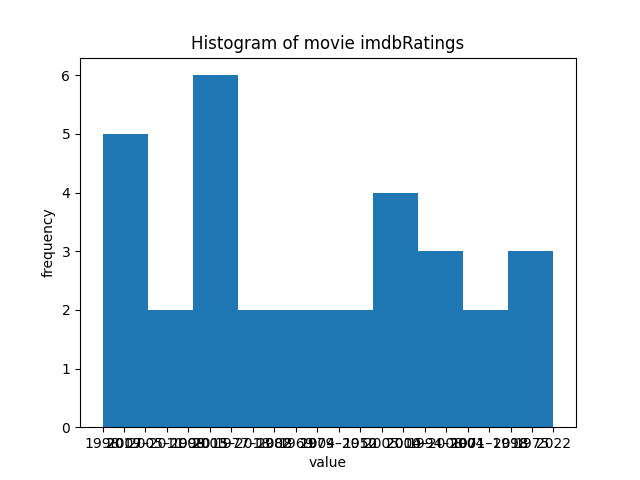
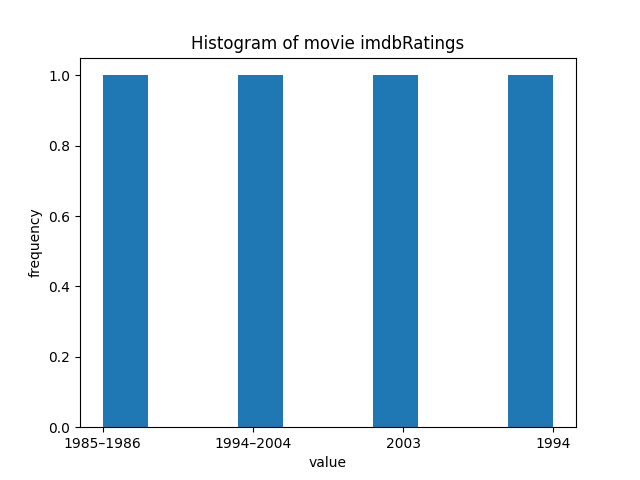
VERSION 1 DELEIVERY OF MOVIE PH.2 TO CORIO

diff --git a/Movie_Project/Movie_Project_Ph2/web_generator.py b/Movie_Project/Movie_Project_Ph2/web_generator.py
@@ -53,33 +53,38 @@ def generate_grid(movies: list):  # A list of tuples with the movies
     grid = ""
 
     for movie in movies:
-        if movie[8] is not None:  # if there is a country for the movie
-            countries = movie[8].split(
-                ","
-            )  # in case there are multiple countries for a movie, we take both countries
+        try:
             country_codes = []
-            for country in countries:
-                country_codes.append(scrape_for_flags(country))
-        grid += f"""
-            <li>
-            <div class="movie">
-                <a href="https://www.imdb.com/title/{movie[2]}/" target="_blank">
-                <img class="movie-poster" title="{movie[7]}" src="{movie[6]}"
-                alt="{movie[7]} poster">
-                </a>
-                """
-        for country_code in country_codes:
+
+            if movie[8] is not None:  # if there is a country for the movie
+                countries = movie[8].split(
+                    ","
+                )  # in case there are multiple countries for a movie, we take both countries
+                country_codes = []
+                for country in countries:
+                    country_codes.append(scrape_for_flags(country))
             grid += f"""
-                <img class="flag" src="https://flagsapi.com/{country_code.upper()}/shiny/64.png"
-                alt="{country_code.upper()} flag">
+                <li>
+                <div class="movie">
+                    <a href="https://www.imdb.com/title/{movie[2]}/" target="_blank">
+                    <img class="movie-poster" title="{movie[7]}" src="{movie[6]}"
+                    alt="{movie[7]} poster">
+                    </a>
+                    """
+            for country_code in country_codes:
+                grid += f"""
+                    <img class="flag" src="https://flagsapi.com/{country_code.upper()}/shiny/64.png"
+                    alt="{country_code.upper()} flag">
+                    """
+            grid += f"""
+                    <div class="movie-title">{movie[3]}</div>
+                    <div class="movie-year">{movie[4]}</div>
+                    <div class="movie-rating">IMDB-Rating: {movie[5]}</div>
+                    </div>
+                    </li>
                 """
-        grid += f"""
-                <div class="movie-title">{movie[3]}</div>
-                <div class="movie-year">{movie[4]}</div>
-                <div class="movie-rating">IMDB-Rating: {movie[5]}</div>
-                </div>
-                </li>
-            """
+        except (IndexError, NameError):
+            return ""
     return grid
 
 def generate_website(movies, username) -> str:

diff --git a/Movie_Project/Movie_Project_Ph2/movie_detail_fetcher.py b/Movie_Project/Movie_Project_Ph2/movie_detail_fetcher.py
@@ -67,7 +67,11 @@ def get_movie_data(imdbID: str = "", title: str = "") -> dict:
         print(Bcolors.FAIL + f"Error: {e}" + Bcolors.ENDC)
         movie_details = {}
         return movie_details
-    if movie_details["Response"] == "False":  # the json contains an invalid response
+    try:
+        if movie_details["Response"] == "False":  # the json contains an invalid response
+           print(Bcolors.WARNING + "Movie not found!." + Bcolors.ENDC)
+           movie_details = {}
+    except KeyError:
         print(Bcolors.WARNING + "Movie not found!." + Bcolors.ENDC)
         movie_details = {}
     return movie_details

diff --git a/Movie_Project/Movie_Project_Ph2/movie_analysis.py b/Movie_Project/Movie_Project_Ph2/movie_analysis.py
@@ -5,6 +5,7 @@ This module handles all the overall statistics related services
 import statistics
 import sys
 import matplotlib.pyplot as plt
+import user_handling as uh
 from user_interface import Bcolors
 import movie_storage as ms
 
@@ -19,7 +20,7 @@ def command_create_rating_histogram():
     import matplotlib.pyplot as plt
     """
     rating_list = []
-    movies = ms.fetch_all_movies()
+    movies = ms.fetch_movies(uh.get_current_userid())
     for movie in movies:
         rating_list.append(movie[4])
     plt.hist(rating_list)
@@ -70,7 +71,7 @@ def command_show_stats():
     # =======================================================================
 
     rating_list = []
-    movies = ms.fetch_all_movies()
+    movies = ms.fetch_movies(uh.get_current_userid())
     for movie in movies:
         rating_list.append(movie[5])
     # print(Bcolors.LISTING + f"Rating_list: {rating_list}" + Bcolors.ENDC)

diff --git a/Movie_Project/Movie_Project_Ph2/movie_storage_json.py b/Movie_Project/Movie_Project_Ph2/movie_storage_json.py
@@ -130,7 +130,7 @@ def fetch_movies(user_id: int):
     """
     movies = []
     available_movies = fetch_movie_from_storage()
-    print("Fetching the movies for: ", user_id)
+    # print("Fetching the movies for: ", user_id)
     for movie in available_movies:
         if movie[1] == user_id:
             movies.append(movie)